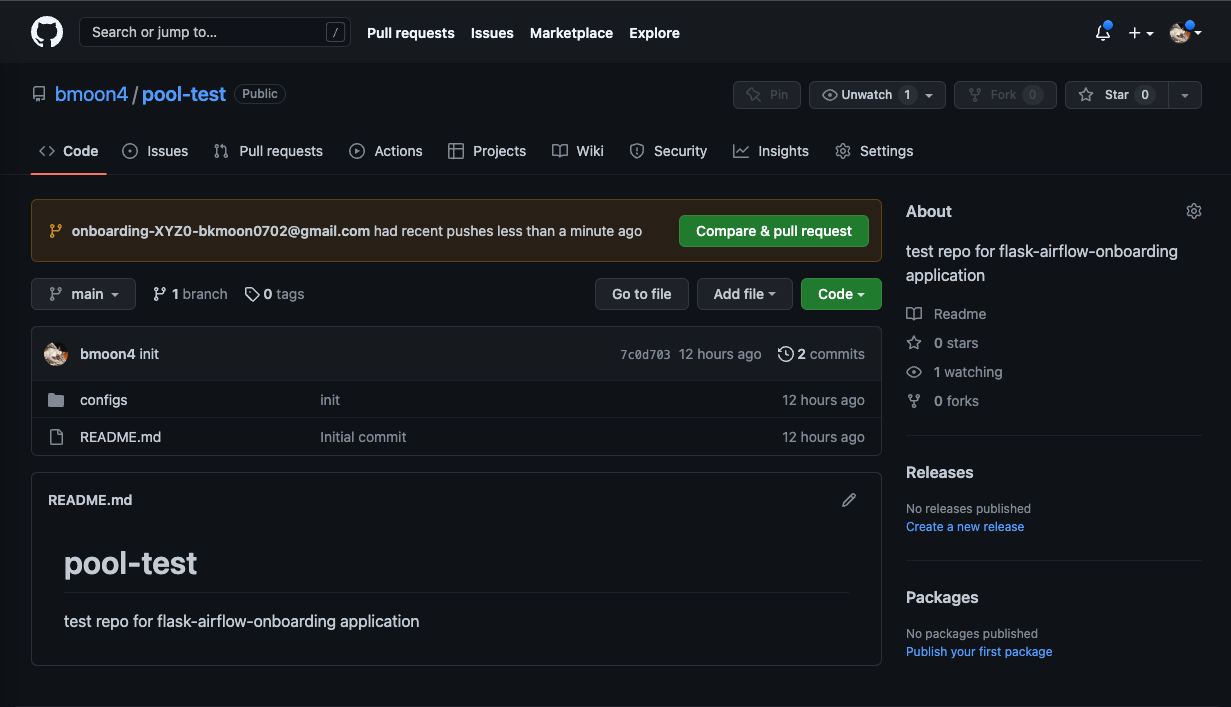
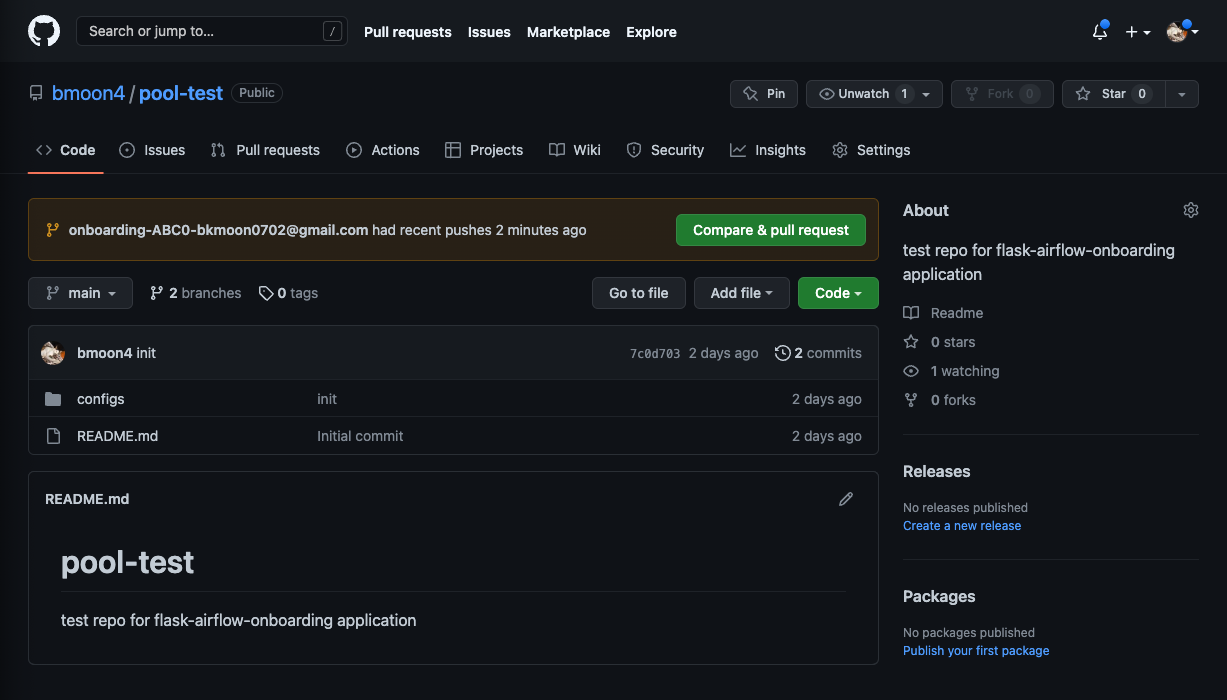
make more generic

diff --git a/templates/submit.html b/templates/submit.html
@@ -21,7 +21,7 @@
     <div class="cover-container d-flex h-100 p-3 mx-auto flex-column">
       <header class="masthead mb-auto">
         <div class="inner">
-          <h3 class="masthead-brand">MUV0 Airflow</h3>
+          <h3 class="masthead-brand">Airflow</h3>
           <nav class="nav nav-masthead justify-content-center">
             <a class="nav-link active" href="/">Home</a>
             <a class="nav-link" href="contact">Contact</a>
@@ -36,9 +36,9 @@
         </br>
         <h3 class="cover-heading">LDAP configuration </h3>
         </br>
-        <p> DEV/SAI : APP_MUV0_{{ appcode }}_USER &nbsp;&nbsp;&nbsp;</p>
-        <p> DEV/SAI : APP_MUV0_{{ appcode }}_VIEWER</p>
-        <p> PROD : APP_MUV0_{{ appcode }}_VIEWER&nbsp;&nbsp;&nbsp;</p>
+        <p> DEV/SAI : APP_{{ appcode }}_USER &nbsp;&nbsp;&nbsp;</p>
+        <p> DEV/SAI : APP_{{ appcode }}_VIEWER</p>
+        <p> PROD : APP_{{ appcode }}_VIEWER&nbsp;&nbsp;&nbsp;</p>
         </br>
         </br>
         <h3 class="cover-heading">Pool configuration </h3>

diff --git a/templates/contact.html b/templates/contact.html
@@ -21,7 +21,7 @@
     <div class="cover-container d-flex h-100 p-3 mx-auto flex-column">
       <header class="masthead mb-auto">
         <div class="inner">
-          <h3 class="masthead-brand">MUV0 Airflow</h3>
+          <h3 class="masthead-brand">Airflow</h3>
           <nav class="nav nav-masthead justify-content-center">
             <a class="nav-link active" href="/">Home</a>
             <a class="nav-link" href="contact">Contact</a>
@@ -30,7 +30,7 @@
       </header>
 
       <main role="main" class="inner cover">
-        <h1 class="cover-heading"> &nbsp;&nbsp;&nbsp;&nbsp;Contact GAM platform team &nbsp;&nbsp;&nbsp;&nbsp;</h1>
+        <h1 class="cover-heading"> &nbsp;&nbsp;&nbsp;&nbsp;Contact Platform Team &nbsp;&nbsp;&nbsp;&nbsp;</h1>
         <h4 class="cover-heading"> team_email@company.com</h4>
         <h4 class="cover-heading"> team_slack_channel_url</h4>
       </main>

diff --git a/templates/index.html b/templates/index.html
@@ -21,7 +21,7 @@
     <div class="cover-container d-flex h-100 p-3 mx-auto flex-column">
       <header class="masthead mb-auto">
         <div class="inner">
-          <h3 class="masthead-brand">MUV0 Airflow</h3>
+          <h3 class="masthead-brand">Airflow</h3>
           <nav class="nav nav-masthead justify-content-center">
             <a class="nav-link active" href="/">Home</a>
             <a class="nav-link" href="contact">Contact</a>
@@ -30,7 +30,7 @@
       </header>
 
       <main role="main" class="inner cover">
-        <h1 class="cover-heading"> Welcome to GAM Platform Page</h1>
+        <h1 class="cover-heading"> Welcome to Platform Team Page</h1>
         <h2 class="cover-heading"> Onboard your new appcode's config</h2>
         <p class="lead">LDAP and Airflow pool config</p>
         <p class="lead">

diff --git a/templates/confirm.html b/templates/confirm.html
@@ -21,7 +21,7 @@
     <div class="cover-container d-flex h-100 p-3 mx-auto flex-column">
       <header class="masthead mb-auto">
         <div class="inner">
-          <h3 class="masthead-brand">MUV0 Airflow</h3>
+          <h3 class="masthead-brand">Airflow</h3>
           <nav class="nav nav-masthead justify-content-center">
             <a class="nav-link active" href="/">Home</a>
             <a class="nav-link" href="contact">Contact</a>

diff --git a/templates/form.html b/templates/form.html
@@ -21,7 +21,7 @@
     <div class="cover-container d-flex h-100 p-3 mx-auto flex-column">
       <header class="masthead mb-auto">
         <div class="inner">
-          <h3 class="masthead-brand">MUV0 Airflow</h3>
+          <h3 class="masthead-brand">Airflow</h3>
           <nav class="nav nav-masthead justify-content-center">
             <a class="nav-link active" href="/">Home</a>
             <a class="nav-link" href="contact">Contact</a>

diff --git a/README.md b/README.md
@@ -21,8 +21,8 @@ Flask app to onboard new appcode + Airflow ldap and pool changes.
 
 ![Screenshot](images/workflow.png)
 
-1. User adds input `appcode (i.e, XYZ0)` and `email(employee@company.com)`
-2. App will clone ldap repo and pool repo and create a new branch (`git checkout -b onboarding-${app_code}-${email}`)
+1. User adds input `appcode (i.e, ABC0)` and `email(employee@company.com)`
+2. App will clone ldap repo and pool repo and create a new branch (`git checkout -b onboarding-${appcode}-${email}`)
 3. Add new config and push the new branch into remote
 4. Slack git bot will detect new branch creation and send notifications to admin
 5. Admin review the new branch/PR and merge into master
@@ -51,47 +51,39 @@ App admin can subscribe git repo's changes using Slack
 Once admin gets this nofication, they will review the new branche and merge into master.
 # Flask app log
 ```
-* Serving Flask app 'app' (lazy loading)
+172.17.0.1 - - [10/Jun/2022 22:35:38] "GET /static/css/cover.css HTTP/1.1" 304 -
 
- * Environment: production
+your appcode:  ABC0
 
-   WARNING: This is a development server. Do not use it in a production deployment.
+your email:  bkmoon0702@gmail.com
 
-   Use a production WSGI server instead.
-
- * Debug mode: on
-
- * Running on all addresses.
-
-   WARNING: This is a development server. Do not use it in a production deployment.
-
- * Running on http://172.17.0.2:3000/ (Press CTRL+C to quit)
-
- * Restarting with stat
-
- * Debugger is active!
-
- * Debugger PIN: 979-184-803
-
-172.17.0.1 - - [08/Jun/2022 21:19:51] "GET / HTTP/1.1" 200 -
-
-172.17.0.1 - - [08/Jun/2022 21:19:51] "GET /dist/js/bootstrap.min.js HTTP/1.1" 404 -
-
-...
+172.17.0.1 - - [10/Jun/2022 22:35:42] "POST /submit HTTP/1.1" 200 -
 
 Received appcode: ABC0
 
-LDAP DEV/QA/UAT: APP_MUV0_ABC0_USER
+LDAP DEV/QA/UAT: APP_ABC0_USER
 
-LDAP PROD: APP_MUV0_ABC0_VIEWER
+LDAP PROD: APP_ABC0_VIEWER
 
 Pool: ABC0_pool: 10
 
 ############################# LDAP setup ###############################
 
+172.17.0.1 - - [10/Jun/2022 22:35:42] "GET /static/css/cover.css HTTP/1.1" 304 -
+
 git clone
 
+172.17.0.1 - - [10/Jun/2022 22:35:42] "GET /dist/js/bootstrap.min.js HTTP/1.1" 404 -
+
+172.17.0.1 - - [10/Jun/2022 22:35:42] "GET /assets/js/vendor/popper.min.js HTTP/1.1" 404 -
+
+Cloning into 'temp'...
+
+172.17.0.1 - - [10/Jun/2022 22:35:42] "GET /static/css/bootstrap.min.css HTTP/1.1" 304 -
+
 git checkout -b
+
+Switched to a new branch 'onboarding-ABC0-bkmoon0702@gmail.com'
 
 add changes
 
@@ -99,16 +91,32 @@ git add .
 
 git commit
 
-[onboarding-ABC0-bkmoon0702@gmail.com 3dbe84d] [ldap] new appcode onboarding
+[onboarding-ABC0-bkmoon0702@gmail.com 75f35ea] [ldap] new appcode onboarding
 
  4 files changed, 4 insertions(+)
 
-Branch 'onboarding-ABC0-bkmoon0702@gmail.com' set up to track remote branch 'onboarding-ABC0-bkmoon0702@gmail.com' from 'origin'.
+To https://github.com/bmoon4/ldap-test.git
 
-The following changes since commit a47a68e256709e7a19053fc0ce81d391ed1800bb:
+ ! [rejected]        onboarding-ABC0-bkmoon0702@gmail.com -> onboarding-ABC0-bkmoon0702@gmail.com (non-fast-forward)
+
+error: failed to push some refs to 'https://github.com/bmoon4/ldap-test.git'
+
+hint: Updates were rejected because the tip of your current branch is behind
+
+hint: its remote counterpart. Integrate the remote changes (e.g.
+
+hint: 'git pull ...') before pushing again.
+
+hint: See the 'Note about fast-forwards' in 'git push --help' for details.
+
+warn: No match for commit 75f35ea0a5f1fb5b5dd2eae62c99b3e1531ada68 found at https://github.com/bmoon4/ldap-test
+
+warn: Are you sure you pushed 'onboarding-ABC0-bkmoon0702@gmail.com' there?
+
+The following changes since commit a99c4ab4defadab7ccd51e3a4cb240c9bd9df96c:
 
 
-  init (2022-06-08 11:18:26 -0400)
+  make more generic (2022-06-10 18:19:16 -0400)
 
 
 are available in the Git repository at:
@@ -117,10 +125,10 @@ are available in the Git repository at:
   https://github.com/bmoon4/ldap-test onboarding-ABC0-bkmoon0702@gmail.com
 
 
-for you to fetch changes up to 3dbe84d759a9ae69448c1ebca20747d292fd3840:
+for you to fetch changes up to 75f35ea0a5f1fb5b5dd2eae62c99b3e1531ada68:
 
 
-  [ldap] new appcode onboarding (2022-06-08 21:20:02 +0000)
+  [ldap] new appcode onboarding (2022-06-10 22:35:42 +0000)
 
 
 ----------------------------------------------------------------
@@ -144,7 +152,11 @@ root (1):
 
 git clone
 
+Cloning into 'temp'...
+
 git checkout -b
+
+Switched to a new branch 'onboarding-ABC0-bkmoon0702@gmail.com'
 
 add changes
 
@@ -152,11 +164,27 @@ git add .
 
 git commit
 
-[onboarding-ABC0-bkmoon0702@gmail.com 802d7ba] [pool] new appcode onboarding
+[onboarding-ABC0-bkmoon0702@gmail.com 68296a1] [pool] new appcode onboarding
 
  4 files changed, 4 insertions(+)
 
-Branch 'onboarding-ABC0-bkmoon0702@gmail.com' set up to track remote branch 'onboarding-ABC0-bkmoon0702@gmail.com' from 'origin'.
+To https://github.com/bmoon4/pool-test.git
+
+ ! [rejected]        onboarding-ABC0-bkmoon0702@gmail.com -> onboarding-ABC0-bkmoon0702@gmail.com (non-fast-forward)
+
+error: failed to push some refs to 'https://github.com/bmoon4/pool-test.git'
+
+hint: Updates were rejected because the tip of your current branch is behind
+
+hint: its remote counterpart. Integrate the remote changes (e.g.
+
+hint: 'git pull ...') before pushing again.
+
+hint: See the 'Note about fast-forwards' in 'git push --help' for details.
+
+warn: No match for commit 68296a1f0b24477df4863e5c2089c8c8d99802f4 found at https://github.com/bmoon4/pool-test
+
+warn: Are you sure you pushed 'onboarding-ABC0-bkmoon0702@gmail.com' there?
 
 The following changes since commit 7c0d7036d43215322ff87e92bcca1da3377d4c64:
 
@@ -170,10 +198,10 @@ are available in the Git repository at:
   https://github.com/bmoon4/pool-test onboarding-ABC0-bkmoon0702@gmail.com
 
 
-for you to fetch changes up to 802d7ba38d1051cebb4fea841cd536b60d9b1e56:
+for you to fetch changes up to 68296a1f0b24477df4863e5c2089c8c8d99802f4:
 
 
-  [pool] new appcode onboarding (2022-06-08 21:20:04 +0000)
+  [pool] new appcode onboarding (2022-06-10 22:35:43 +0000)
 
 
 ----------------------------------------------------------------
@@ -192,50 +220,4 @@ root (1):
  configs/uat/pools.yaml  | 1 +
 
  4 files changed, 4 insertions(+)
-
-Cloning into 'temp'...
-
-172.17.0.1 - - [08/Jun/2022 21:20:02] "GET /assets/js/vendor/popper.min.js HTTP/1.1" 404 -
-
-172.17.0.1 - - [08/Jun/2022 21:20:02] "GET /static/css/bootstrap.min.css HTTP/1.1" 304 -
-
-172.17.0.1 - - [08/Jun/2022 21:20:02] "GET /dist/js/bootstrap.min.js HTTP/1.1" 404 -
-
-172.17.0.1 - - [08/Jun/2022 21:20:02] "GET /static/css/cover.css HTTP/1.1" 304 -
-
-Switched to a new branch 'onboarding-ABC0-bkmoon0702@gmail.com'
-
-remote:
-
-remote: Create a pull request for 'onboarding-ABC0-bkmoon0702@gmail.com' on GitHub by visiting:
-
-remote:      https://github.com/bmoon4/ldap-test/pull/new/onboarding-ABC0-bkmoon0702@gmail.com
-
-remote:
-
-To https://github.com/bmoon4/ldap-test.git
-
- * [new branch]      onboarding-ABC0-bkmoon0702@gmail.com -> onboarding-ABC0-bkmoon0702@gmail.com
-
-Cloning into 'temp'...
-
-Switched to a new branch 'onboarding-ABC0-bkmoon0702@gmail.com'
-
-remote:
-
-remote: Create a pull request for 'onboarding-ABC0-bkmoon0702@gmail.com' on GitHub by visiting:
-
-remote:      https://github.com/bmoon4/pool-test/pull/new/onboarding-ABC0-bkmoon0702@gmail.com
-
-remote:
-
-To https://github.com/bmoon4/pool-test.git
-
- * [new branch]      onboarding-ABC0-bkmoon0702@gmail.com -> onboarding-ABC0-bkmoon0702@gmail.com
-
-172.17.0.1 - - [08/Jun/2022 21:20:28] "GET /confirm HTTP/1.1" 200 -
-
-172.17.0.1 - - [08/Jun/2022 21:20:28] "GET /assets/js/vendor/popper.min.js HTTP/1.1" 404 -
-
-...
 ```
